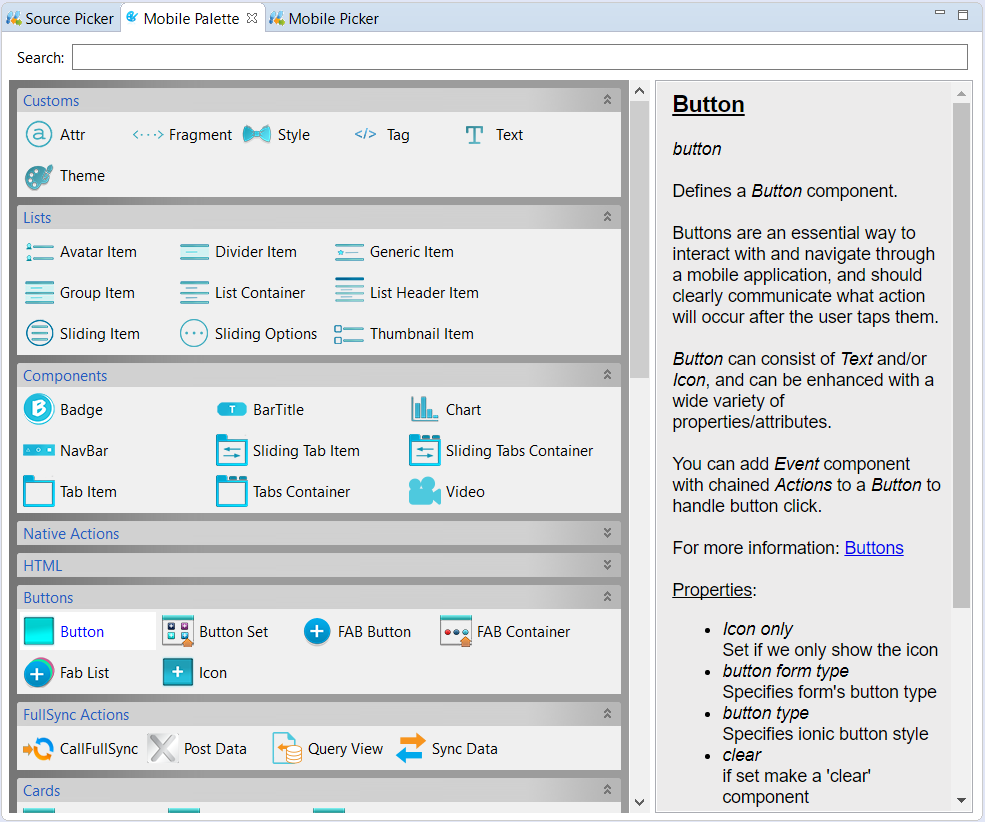
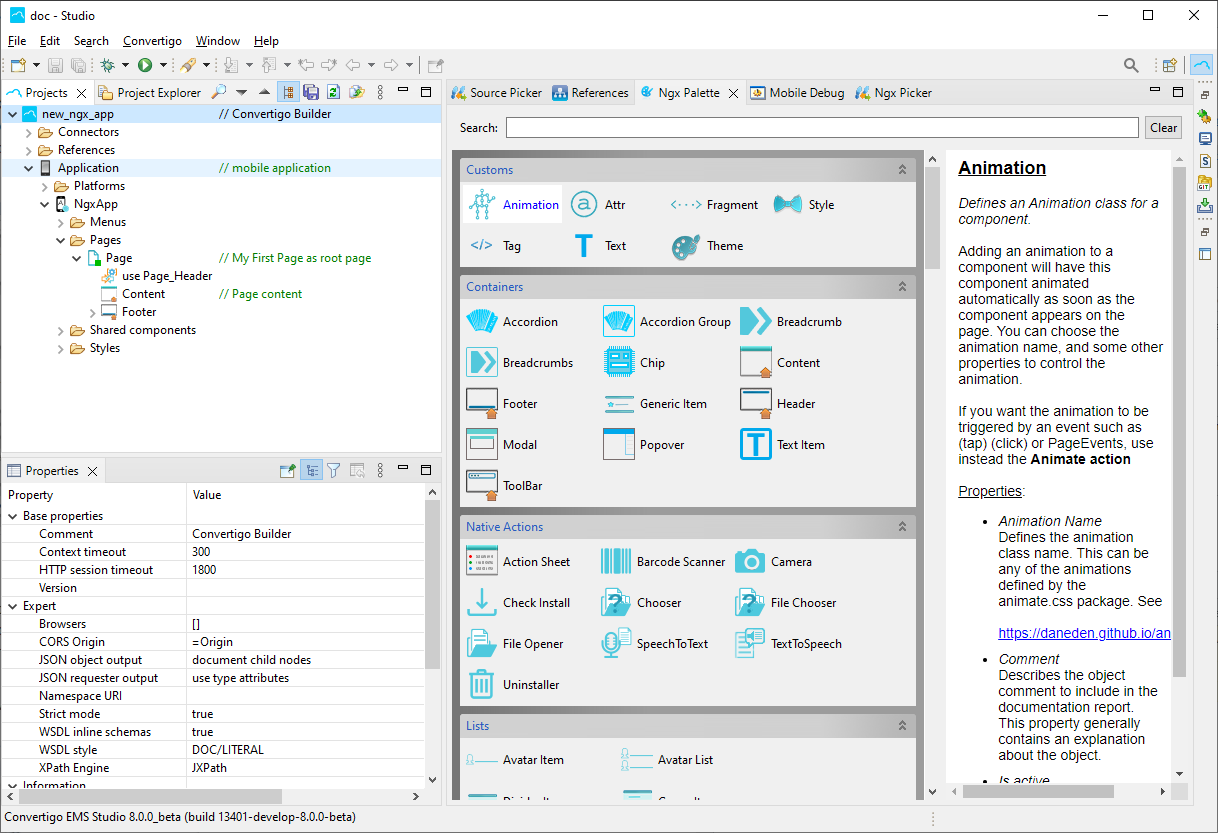
Moved and modified Builder doc

diff --git a/programming-guide/convertigo-mobile-builder/index.md b/programming-guide/convertigo-mobile-builder/index.md
@@ -1,30 +1,28 @@
 ---
-title: Convertigo Mobile Builder
+title: Convertigo Builder
 keywords: pages, authoring, exclusion, frontmatter
-last_updated: 21/03/2019
-summary: "Convertigo Mobile Builder is the Visual Drag & Drop Mobile App module for Convertigo Mobility Platform"
+last_updated: 04/05/2022
+summary: "Convertigo Builder is the visual Drag & Drop Application module for Convertigo Low Code Platform"
 sidebar: c8o_sidebar
 permalink: /reference-manual/convertigo-mobile-builder/
 ---
 {{site.data.alerts.note}}
-With Convertigo Mobile builder, you can build in minutes, Cross – Platform UIs based on the Ionic / Angular technology accessing the full power of Convertigo MBaaS server.
+With {{site.data.strings.product_name}}, you can build in minutes, Cross–Platform UIs based on the Ionic / Angular technology accessing the full power of Convertigo MBaaS server.
 {{site.data.alerts.end}}
 
-## Mobile builder overview
+## Builder overview
 
-RAD (Rapid Application Development) is now a very well-known concept for classic application development. This type of technology is called RMAD when it is applied to Mobile Applications.
+{{site.data.strings.product_name}} is building the next generation product including one of the most powerful Front End Low code builder on the market.
 
-Convertigo is building the next generation product including one of the most powerful RMAD module on the market.
+It uses a new graphical user interface builder able to build, in a few minutes, ready-to-deploy applications leveraging the full power of Convertigo MBaaS backend!
 
-Convertigo Mobile Builder uses a new graphical user interface builder able to build, in a few minutes, ready-to-deploy applications leveraging the full power of Convertigo MBaaS backend!
+An application produced with {{site.data.strings.product_name}} is not a “prototype” nor a “quick & dirty” application. Built applications are fully deployable on cross-platform devices and work on complex enterprise data.
 
-Unlike other RAD systems, an application produced with Convertigo Mobile Builder is not a “prototype” nor a “quick & dirty” app. Built applications are fully deployable on cross-platform devices and work on complex enterprise data.
+{{site.data.strings.product_name}} is based on well-known industry standard technologies such as Cordova, Angular 13 and Ionic 6 frameworks.
 
-Convertigo Mobile Builder RMAD is based on well-known industry standard technologies such as Cordova, Angular 5 and Ionic 3 frameworks.
+{% include image.html file="man_img/MB-Overview.png" url="images/man_img/MB-Overview.png" alt="Convertigo Builder overview" caption="Convertigo Builder overview" %}
 
-{% include image.html file="man_img/MB-Overview.png" url="images/man_img/MB-Overview.png" alt="Convertigo Mobile Builder overview" caption="Convertigo Mobile Builder overview" %}
-
-The new Mobile Builder module brings an “Application” object in project tree under the “MobileApplication” object. This object is representing the graphical UI displayed on the right pane. To design and build an application, the user simply drags & drops mobile components from the mobile palette to the correct location in the Application tree.
+The new Builder module brings an “Application” object in project tree under the “NgxApp” object. This object is representing the graphical UI displayed on the right pane. To design and build an application, the user simply drags & drops mobile components from the mobile palette to the correct location in the Application tree.
 
 The Viewer right pane will automatically reflect the changes in real time showing the user what the app will look like. The user can also modify any of the mobile component properties and see in real time the result in the right pane app viewer.
 
@@ -35,15 +33,15 @@ The application you are working on will be displayed in the “Application Viewe
 Right click on the “Application” component -> Execute
 Double click on the “Application” component
 Hit the “ENTER” key when the application component is selected
-When the application viewer is launched, it will start to build in real time the current application described in your project. For this, the viewer will need to download from Internet all your application dependencies modules. This download is done once from the NPM repository using the standard NPM tool. This is why you should have NPM (NodeJS > 8.X) installed on your workstation to use Mobile Builder.
+When the application viewer is launched, it will start to build in real time the current application described in your project. For this, the viewer will need to download from Internet all your application dependencies modules. This download is done once from the NPM repository using the standard NPM tool. This is why you should have NPM (NodeJS > 8.X) installed on your workstation to use Builder.
 
 The NPM install process can last several minutes according to your Internet Bandwith and CPU power. A progress indicator will show you how much data has been downloaded. A typical application will require about 180MB of packages dependencies to be downloaded and installed in your project. In most cases the NPM install process is done only once in the life of your project, but you can choose to re-install NPM dependencies, or to update them by right-clicking on:
 
 “Application” component -> “Update packages and Execute…”
 “Application” component -> “Re-install packages and Execute…”
-Once the packages have been downloaded, the viewer will start to build your app to be displayed. This process will take about 20 to 30 seconds and will be done only once when you launch the viewer. While the viewer is displayed, any modification in the Mobile Builder project tree will be reflected in real time in the viewer.
+Once the packages have been downloaded, the viewer will start to build your app to be displayed. This process will take about 20 to 30 seconds and will be done only once when you launch the viewer. While the viewer is displayed, any modification in the Builder project tree will be reflected in real time in the viewer.
 
-Applications can be shown as iOS devices (iPhones, iPADs) as Android devices or as Windows Mobile devices. The user can click on the device menu to show all available devices. Custom devices can also be created by giving the device a name and configuring its width and height in pixels. Users can Zoom in and Zoom out the apps to see more details or to fit the whole app in the app viewer.
+Applications can be shown as iOS devices (iPhones, iPADs) as Android devices or as a Desktop application. The user can click on the device menu to show all available devices. Custom devices can also be created by giving the device a name and configuring its width and height in pixels. Users can Zoom in and Zoom out the apps to see more details or to fit the whole app in the app viewer.
 
 {% include image.html file="man_img/landscape-viewer.png" url="images/man_img/landscape-viewer.png" alt="Landscape-viewer" caption="Landscape-viewer" max-width="400" %}
 {% include image.html file="man_img/Portrait-viewer.png" url="images/man_img/Portrait-viewer.png" alt="Portrait-viewer" caption="Portrait-viewer" max-width="400" %}
@@ -68,25 +66,25 @@ The Mobile Builder has several controls you can use to help you running the app 
 - **Save Dataset**: Saves current data in the app as a dataset
 - **Delete Dataset**: Deletes a dataset
 
-## Mobile components
+##  NGX Components
 
-The Mobile Builder comes with a “Mobile Palette” containing the main components useful for creating the content of your application pages. Components are grouped by categories, but you can quickly find a component using the search bar. When you select a component, help for its use is displayed in the right pane. Simply drag and drop your components from the palette into the tree view of your pages.
+The Builder comes with a “NGX Palette” containing the main components useful for creating the content of your application pages. Components are grouped by categories, but you can quickly find a component using the search bar. When you select a component, help for its use is displayed in the right pane. Simply drag and drop your components from the palette into the tree view of your pages.
 
-{% include image.html file="man_img/MobilePalette.png" url="images/man_img/MobilePalette.png" alt="MobilePalette" caption="MobilePalette" max-width="400" %}
+{% include image.html file="man_img/MobilePalette.png" url="images/man_img/MobilePalette.png" alt="NGXPalette" caption="NGXPalette" max-width="400" %}
 
 When you drop a component on existing one in the tree, it will be inserted under. You can reorder it by using the ‘up’ and ‘down’ buttons on the top of the project tree. You can also move the component to another position in the tree branch by drag & dropping it on the same branch.
 
 Although this is not as precise as dragging on the tree, you can also drag a component directly on the Application Viewer space. In this case, the zone where the component will be droppped will be highlighted in blue.
 
-{% include image.html file="man_img/mobile-components.png" url="images/man_img/mobile-components.png" alt="Mobile Component" caption="Mobile Components" max-width="400" %}
+{% include image.html file="man_img/mobile-components.png" url="images/man_img/mobile-components.png" alt="NGX Component" caption="NGX Components" max-width="400" %}
 
-Any mobile component can be selected from the project tree view which allows you to access and modify its properties in the “Properties” view. When you double-click on a component it is automatically highlighted in blue with a red dotted border in the application viewer. You can also double-click on a page to display this exact page on the app viewer. The other way round, if you right-click on a component in the application viewer, it will be highlighted and its mobile component will also be selected in the project tree.
+Any component can be selected from the project tree view which allows you to access and modify its properties in the “Properties” view. When you double-click on a component it is automatically highlighted in blue with a red dotted border in the application viewer. You can also double-click on a page to display this exact page on the app viewer. The other way round, if you right-click on a component in the application viewer, it will be highlighted and its component will also be selected in the project tree.
 
 ## Handling events and actions
 
-An application reacts to events generated by users, for example when they click on a button, submit a form, or wipe and object. You can handle these events by dropping the ‘Event’ component from the palette on a mobile component. A ‘control’ folder will be created with the event in it. Any mobile component can receive an 'Event component (buttons, images, containers, etc …). Once the ‘Event’ is placed, you can configure its ‘Event Type’ property to the event of your choice. Mobile builder has a built-in event list (click, tap, swipe, ect …) but you may use your own by typing yourself the event enclosed by parenthesis, eg: (myEvent)
+An application reacts to events generated by users, for example when they click on a button, submit a form, or wipe and object. You can handle these events by dropping the ‘Event’ component from the palette on a mobile component. A ‘control’ folder will be created with the event in it. Any component can receive an 'Event component (buttons, images, containers, etc …). Once the ‘Event’ is placed, you can configure its ‘Event Type’ property to the event of your choice. Builder has a built-in event list (click, tap, swipe, ect …) but you may use your own by typing yourself the event enclosed by parenthesis, eg: (myEvent)
 
-An application also reacts to some internal events triggered by mobile ‘Pages’, for example when a page is displayed, or created. To handle these type of events you can use the the ‘Page event’ component by dropping it directly on a ‘Page’.
+An application also reacts to some internal events triggered by ‘Pages’, for example when a page is displayed, or created. To handle these type of events you can use the ‘Page event’ component by dropping it directly on a ‘Page’.
 
 ### Using Actions in events
 
@@ -129,7 +127,7 @@ You can add variable objects to this action by dropping ‘Variable’ component
 
 ## Mobile debugger
 
-Convertigo Mobile Builder includes a 100% visual debugger able to monitor and debug your mobile apps. This debugger has roughly the same features and usage than the Google Chrome debugger. To activate it, just click on the mobile debug tab(1) and click the debugger icon(2). The tool can be used to adjust styles, margins, and components placements precisely. Therefore, unlike other RMAD platforms, Convertigo mobile Builder can be used to create tailored applications.
+{{site.data.strings.product_name}} includes a 100% visual debugger able to monitor and debug your apps. This debugger has roughly the same features and usage than the Google Chrome debugger. To activate it, just click on the mobile debug tab(1) and click the debugger icon(2). The tool can be used to adjust styles, margins, and components placements precisely. Therefore, unlike other platforms, {{site.data.strings.product_name}} can be used to create tailored applications.
 
 {% include image.html file="man_img/Mobile-debugger-12.png" url="images/man_img/Mobile-debugger-12.png" alt="Mobile debugger 1" caption="Mobile debugger 1" max-width="400" %}
 
@@ -139,9 +137,9 @@ The mobile debugger also shows all the network interaction between the device an
 
 ## Data binding
 
-Data binding makes mobile applications able to display data from the backend services. With Convertigo this is done by a simple Drag & Drop!
-One of the most powerful features of Convertigo Mobile builder RMAD is the Automatic Databinding. Data can be linked inbound and outbound without writing any line of code!
-This can be done by using the “Mobile Picker” tool. This picker displays all the Sequences, FullSync databases, Iterator directives and Forms available for your project and for each of them the data model returned. Drag & dropping one of the model fields to a Mobile component will automatically bind it to the data.
+Data binding makes applications able to display data from the backend services. With Convertigo this is done by a simple Drag & Drop!
+One of the most powerful features of {{site.data.strings.product_name}} RMAD is the Automatic Databinding. Data can be linked inbound and outbound without writing any line of code!
+This can be done by using the NGX Picker” tool. This picker displays all the Sequences, FullSync databases, Iterator directives and Forms available for your project and for each of them the data model returned. Drag & dropping one of the model fields to a component will automatically bind it to the data.
 
 {% include image.html file="man_img/photo-1.png" url="images/man_img/photo-1.png" max-width="400" %}
 
@@ -152,14 +150,14 @@ Every component property can be bound in different modes. Click on one of the mo
 - (TX) mode : property will be bound to some static text.
 - (TS) mode : property will be bound to a TypeScript expression.
 It can be a string (write it within enclosing simple quotes), a number (write it as is) or an expression calling some of the page methods, for example myMethod()
-- (SC) mode : property will be bound to a source picked by the mobile picker tool, coming from a Sequence call, a FullSync call, an Iterator directive or a Form.
+- (SC) mode : property will be bound to a source picked by the NGX picker tool, coming from a Sequence call, a FullSync call, an Iterator directive or a Form.
 
 ### Collection binding
 
 Collection binding will make a component with its content repeated for each data occurrence. This is useful to display a list of items.
 
 Sometimes, you’d like the returned data to be bound to a collection, for example when you want to display a list of items.
-Use the “ForEach” directive component by drag & dropping it in a mobile “List Container” component. 
+Use the “ForEach” directive component by drag & dropping it in a “List Container” component. 
 Configure its “Directive source” property by clicking the “SC” toggle and the “…” button, then select the recurring data field of your source.
 
 In example below, the “ForEach” component contains one “Button” component which will be repeated for each “employee”.
@@ -168,10 +166,10 @@ In example below, the “ForEach” component contains one “Button” componen
 
 ## Styling applications
 
-Convertigo Mobile Builder RMAD applications can be easily styled as they are based on the powerful Ionic 2 framework.
-You can use the “Style” component to apply styles to the entire application, to a whole page and/or to given a mobile component.
+{{site.data.strings.product_name}} applications can be easily styled as they are based on the powerful Ionic 2 framework.
+You can use the “Style” component to apply styles to the entire application, to a whole page and/or to given a component.
 
-Simply Drag & Drop the “Style” component from the mobile palette. The following picture shows a “Style” component which will apply for a whole page.
+Simply Drag & Drop the “Style” component from the NGX palette. The following picture shows a “Style” component which will apply for a whole page.
 
 {% include image.html file="man_img/Styling-appllications-1.png" url="images/man_img/Styling-appllications-1.png" alt="Styling appllications 1" caption="Styling appllications 1" max-width="400" %}
 
@@ -183,14 +181,14 @@ Double clicking on a “Style” will open the “Style editor” where you can 
 
 {% include image.html file="man_img/Styling-applications-3.png" url="images/man_img/Styling-applications-3.png" alt="Styling appllications 3" caption="Styling appllications 3" max-width="400" %}
 
-You can also use the “Theme” component to apply a theme to your application by dragging & dropping it from the mobile palette on the project “Application” component.
+You can also use the “Theme” component to apply a theme to your application by dragging & dropping it from the NGX palette on the project “Application” component.
 The “Theme” can be edited by double-clicking on it.
 
 {% include image.html file="man_img/Styling-applications-4.png" url="images/man_img/Styling-applications-4.png" alt="Styling appllications 4" caption="Styling appllications 4" max-width="400" %}
 
 ## Using forms
 
-Form management is a built-in feature of Convertigo Mobile Builder RMAD.
+Form management is a built-in feature of {{site.data.strings.product_name}}.
 
 To add and design a form, simply drag & drop a “Form” and its ‘input’ components in the content of a page. 
 Form ‘input’ components can be input fields, check boxes, range sliders, select drop downs, radio buttons, toggles or any other HTML form element. 
@@ -198,7 +196,7 @@ Drop an “onSubmit” Event on the form to handle submission. Bind this event b
 
 {% include image.html file="man_img/Using-forms-1.png" url="images/man_img/Using-forms-1.png" alt="Using forms 1" max-width="500" %}
 
-Even better, you can build a form in just one action by drag & dropping a “Sequence” directly on a “Form” component! Convertigo Mobile Builder will automatically generate for you all the form ‘input’ components with labels, bind the “onSubmit” event to this sequence, and bind all the form ‘input’ components to the sequence input variables. You are then free to customize the form the way you want.
+Even better, you can build a form in just one action by drag & dropping a “Sequence” directly on a “Form” component! {{site.data.strings.product_name}} will automatically generate for you all the form ‘input’ components with labels, bind the “onSubmit” event to this sequence, and bind all the form ‘input’ components to the sequence input variables. You are then free to customize the form the way you want.
 
 Forms also support field validators. To use them, just drag & drop on an ‘input’ component a “ControlValidator” component and change its properties, or use a “CustomValidator” component to write a custom validation function. Simply double-click on the validator to open its editor, scroll down to the function and write your code between the /* Begin_c8o_function:validateXXX */ and the /* End_c8o_function:validate */ comments. You can also add a “CustomValidator” component to your “Form” component if you’d like to handle the whole form validation.
 
@@ -206,7 +204,7 @@ Forms also support field validators. To use them, just drag & drop on an ‘inpu
 
 ## Writing custom code
 
-Although RMAD technology helps in writing mobile applications in a few clicks, you might want to write your own custom code to perform some bespoke processing in your app. Convertigo Mobile Builder enables this by letting you write some TypeScript code at the application level or at a specific page level.
+Although RMAD technology helps in writing applications in a few clicks, you might want to write your own custom code to perform some bespoke processing in your app. {{site.data.strings.product_name}} enables this by letting you write some TypeScript code at the application level or at a specific page level.
 
 ### Customizing code at the application level
 
@@ -214,7 +212,7 @@ To write code at the application level, right-click on the application component
 
 {% include image.html file="man_img/Write-Custom-code-1.png" url="images/man_img/Write-Custom-code-1.png" alt="Write Custom code 1" max-width="500" %}
 
-Write your TypeScript code between the /* Begin_c8o_XXX */ and the /* End_c8o_XXX */ comments. This code will be saved in the application or the page component. Convertigo Mobile Builder TypeScript editor supports syntax coloring and code assist completion.
+Write your TypeScript code between the /* Begin_c8o_XXX */ and the /* End_c8o_XXX */ comments. This code will be saved in the application or the page component. {{site.data.strings.product_name}} TypeScript editor supports syntax coloring and code assist completion.
 
 ### Customizing code at the page level
 

diff --git a/reference-manual/index.md b/reference-manual/index.md
@@ -11,4 +11,3 @@ permalink: /reference-manual/
 * [Convertigo Objects](convertigo-objects/)
 * [JavaScript Objects APIs](javascript-objects-apis/)
 * [Interfaces to Convertigo](convertigo-mbaas-server/interfaces-to-convertigo/)
-* [Convertigo Mobile Builder](convertigo-mobile-builder/)
